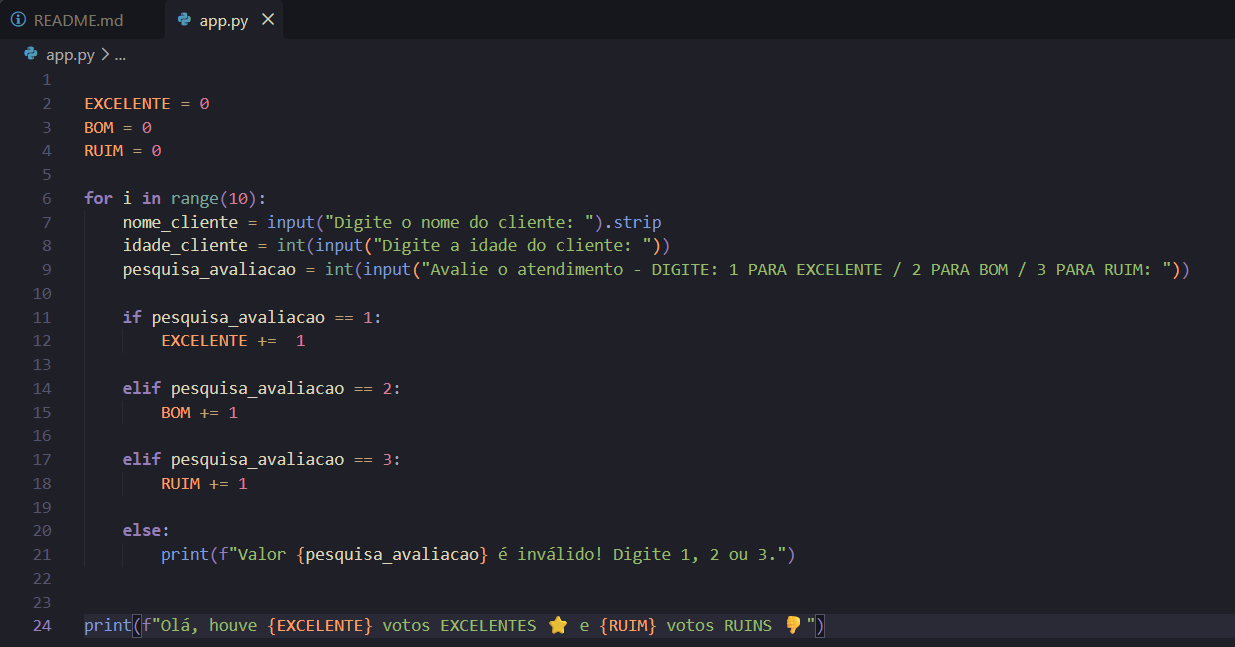
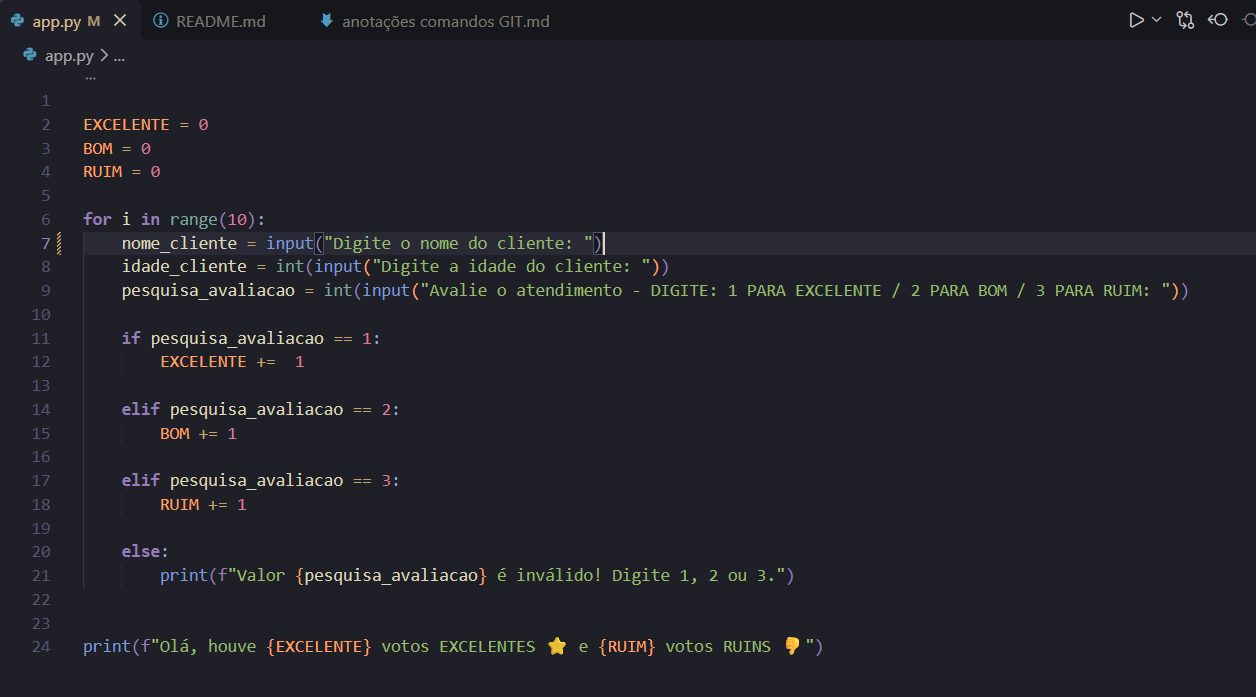
style: exclusão .strip e modif img readme

diff --git a/app.py b/app.py
@@ -4,7 +4,7 @@ BOM = 0
 RUIM = 0
 
 for i in range(10):
-    nome_cliente = input("Digite o nome do cliente: ").strip
+    nome_cliente = input("Digite o nome do cliente: ")
     idade_cliente = int(input("Digite a idade do cliente: "))
     pesquisa_avaliacao = int(input("Avalie o atendimento - DIGITE: 1 PARA EXCELENTE / 2 PARA BOM / 3 PARA RUIM: "))
 
